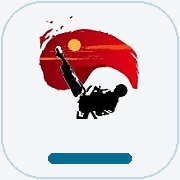
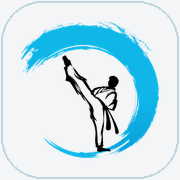
style: restore final Raon brand system

diff --git a/public/index.html b/public/index.html
@@ -6,9 +6,9 @@
   <meta name="theme-color" content="#f3f5f7">
   <meta name="description" content="제8회 응암2동 주민총회 & 응암2동 함께마당에서 펼쳐진 라온태권도 시범단의 공연 사진과 영상.">
   <title>라온의 순간 — 응암2동 함께마당 | 라온 갤러리</title>
-  <link rel="icon" href="favicon-32.png?v=raon-emblem-2" type="image/png" sizes="32x32">
-  <link rel="icon" href="favicon.svg?v=raon-emblem-2" type="image/svg+xml" sizes="any">
-  <link rel="apple-touch-icon" href="apple-touch-icon.png?v=raon-emblem-2" sizes="180x180">
+  <link rel="icon" href="favicon-32.png?v=raon-emblem-3" type="image/png" sizes="32x32">
+  <link rel="icon" href="favicon.svg?v=raon-emblem-3" type="image/svg+xml" sizes="any">
+  <link rel="apple-touch-icon" href="apple-touch-icon.png?v=raon-emblem-3" sizes="180x180">
   <link rel="stylesheet" href="styles.css">
   <link rel="stylesheet" href="cover.css">
   <script src="config.js" defer></script>
@@ -26,7 +26,10 @@
     <a class="brand" href="./" aria-label="라온태권도장 · 라온 갤러리 홈">
       <span class="brand-aura">
         <span class="brand-aura-orbit" aria-hidden="true"><span class="brand-aura-light"></span></span>
-        <img class="brand-logo" src="assets/raon-logo-transparent.png" width="374" height="269" alt="한체대 석사 라온태권도">
+        <picture>
+          <source media="(max-width: 760px)" srcset="assets/raon-emblem-final.png">
+          <img class="brand-logo" src="assets/raon-logo-final.png" width="1761" height="652" alt="한체대 석사 라온태권도">
+        </picture>
       </span>
       <span class="brand-label">라온 갤러리<small>RAON GALLERY</small></span>
     </a>

diff --git a/public/cover.css b/public/cover.css
@@ -2,27 +2,30 @@
 .brand-aura {
   position: relative;
   display: block;
-  width: 126px;
-  height: 91px;
+  width: 218px;
+  height: 81px;
   flex-shrink: 0;
   isolation: isolate;
 }
 .brand-aura::before {
   content: "";
   position: absolute;
-  inset: -7px -14px;
+  right: -5%;
+  top: -7%;
+  width: 42%;
+  height: 114%;
   border-radius: 50%;
-  background: radial-gradient(ellipse, #ffffffc4 8%, #bfe8f780 39%, #8bcbe920 58%, transparent 74%);
-  opacity: .65;
+  background: radial-gradient(circle, #fff 7%, #baf0ff85 35%, #59cceb28 57%, transparent 73%);
+  opacity: .72;
   pointer-events: none;
 }
 .brand-aura-orbit {
   position: absolute;
-  left: 50%;
+  right: 1%;
   top: 50%;
-  width: 74%;
+  width: 35%;
   aspect-ratio: 1;
-  transform: translate(-50%, -50%) scale(1.45, .9);
+  transform: translateY(-50%);
   pointer-events: none;
 }
 .brand-aura-light {
@@ -54,8 +57,8 @@
   position: relative;
   z-index: 1;
   display: block;
-  width: 126px;
-  height: 91px;
+  width: 218px;
+  height: 81px;
   flex-shrink: 0;
   object-fit: contain;
   filter: drop-shadow(0 1px 1px #18364b14);
@@ -111,8 +114,10 @@
   .cover-gallery-link { font-size: 12px; }
 }
 @media (max-width: 760px) {
-  .brand-aura { width: 105px; height: 76px; }
-  .brand-logo { width: 105px; height: 76px; }
+  .brand-aura { width: 74px; height: 74px; }
+  .brand-aura::before { right: -9%; top: -9%; width: 118%; height: 118%; }
+  .brand-aura-orbit { left: 50%; right: auto; width: 82%; transform: translate(-50%, -50%); }
+  .brand-logo { width: 74px; height: 74px; }
   .cover-carousel { aspect-ratio: 1.75; border-radius: 17px; }
   .cover-caption { padding: 45px 16px 15px; gap: 10px; }
   .cover-gallery-link { font-size: 13px; }
